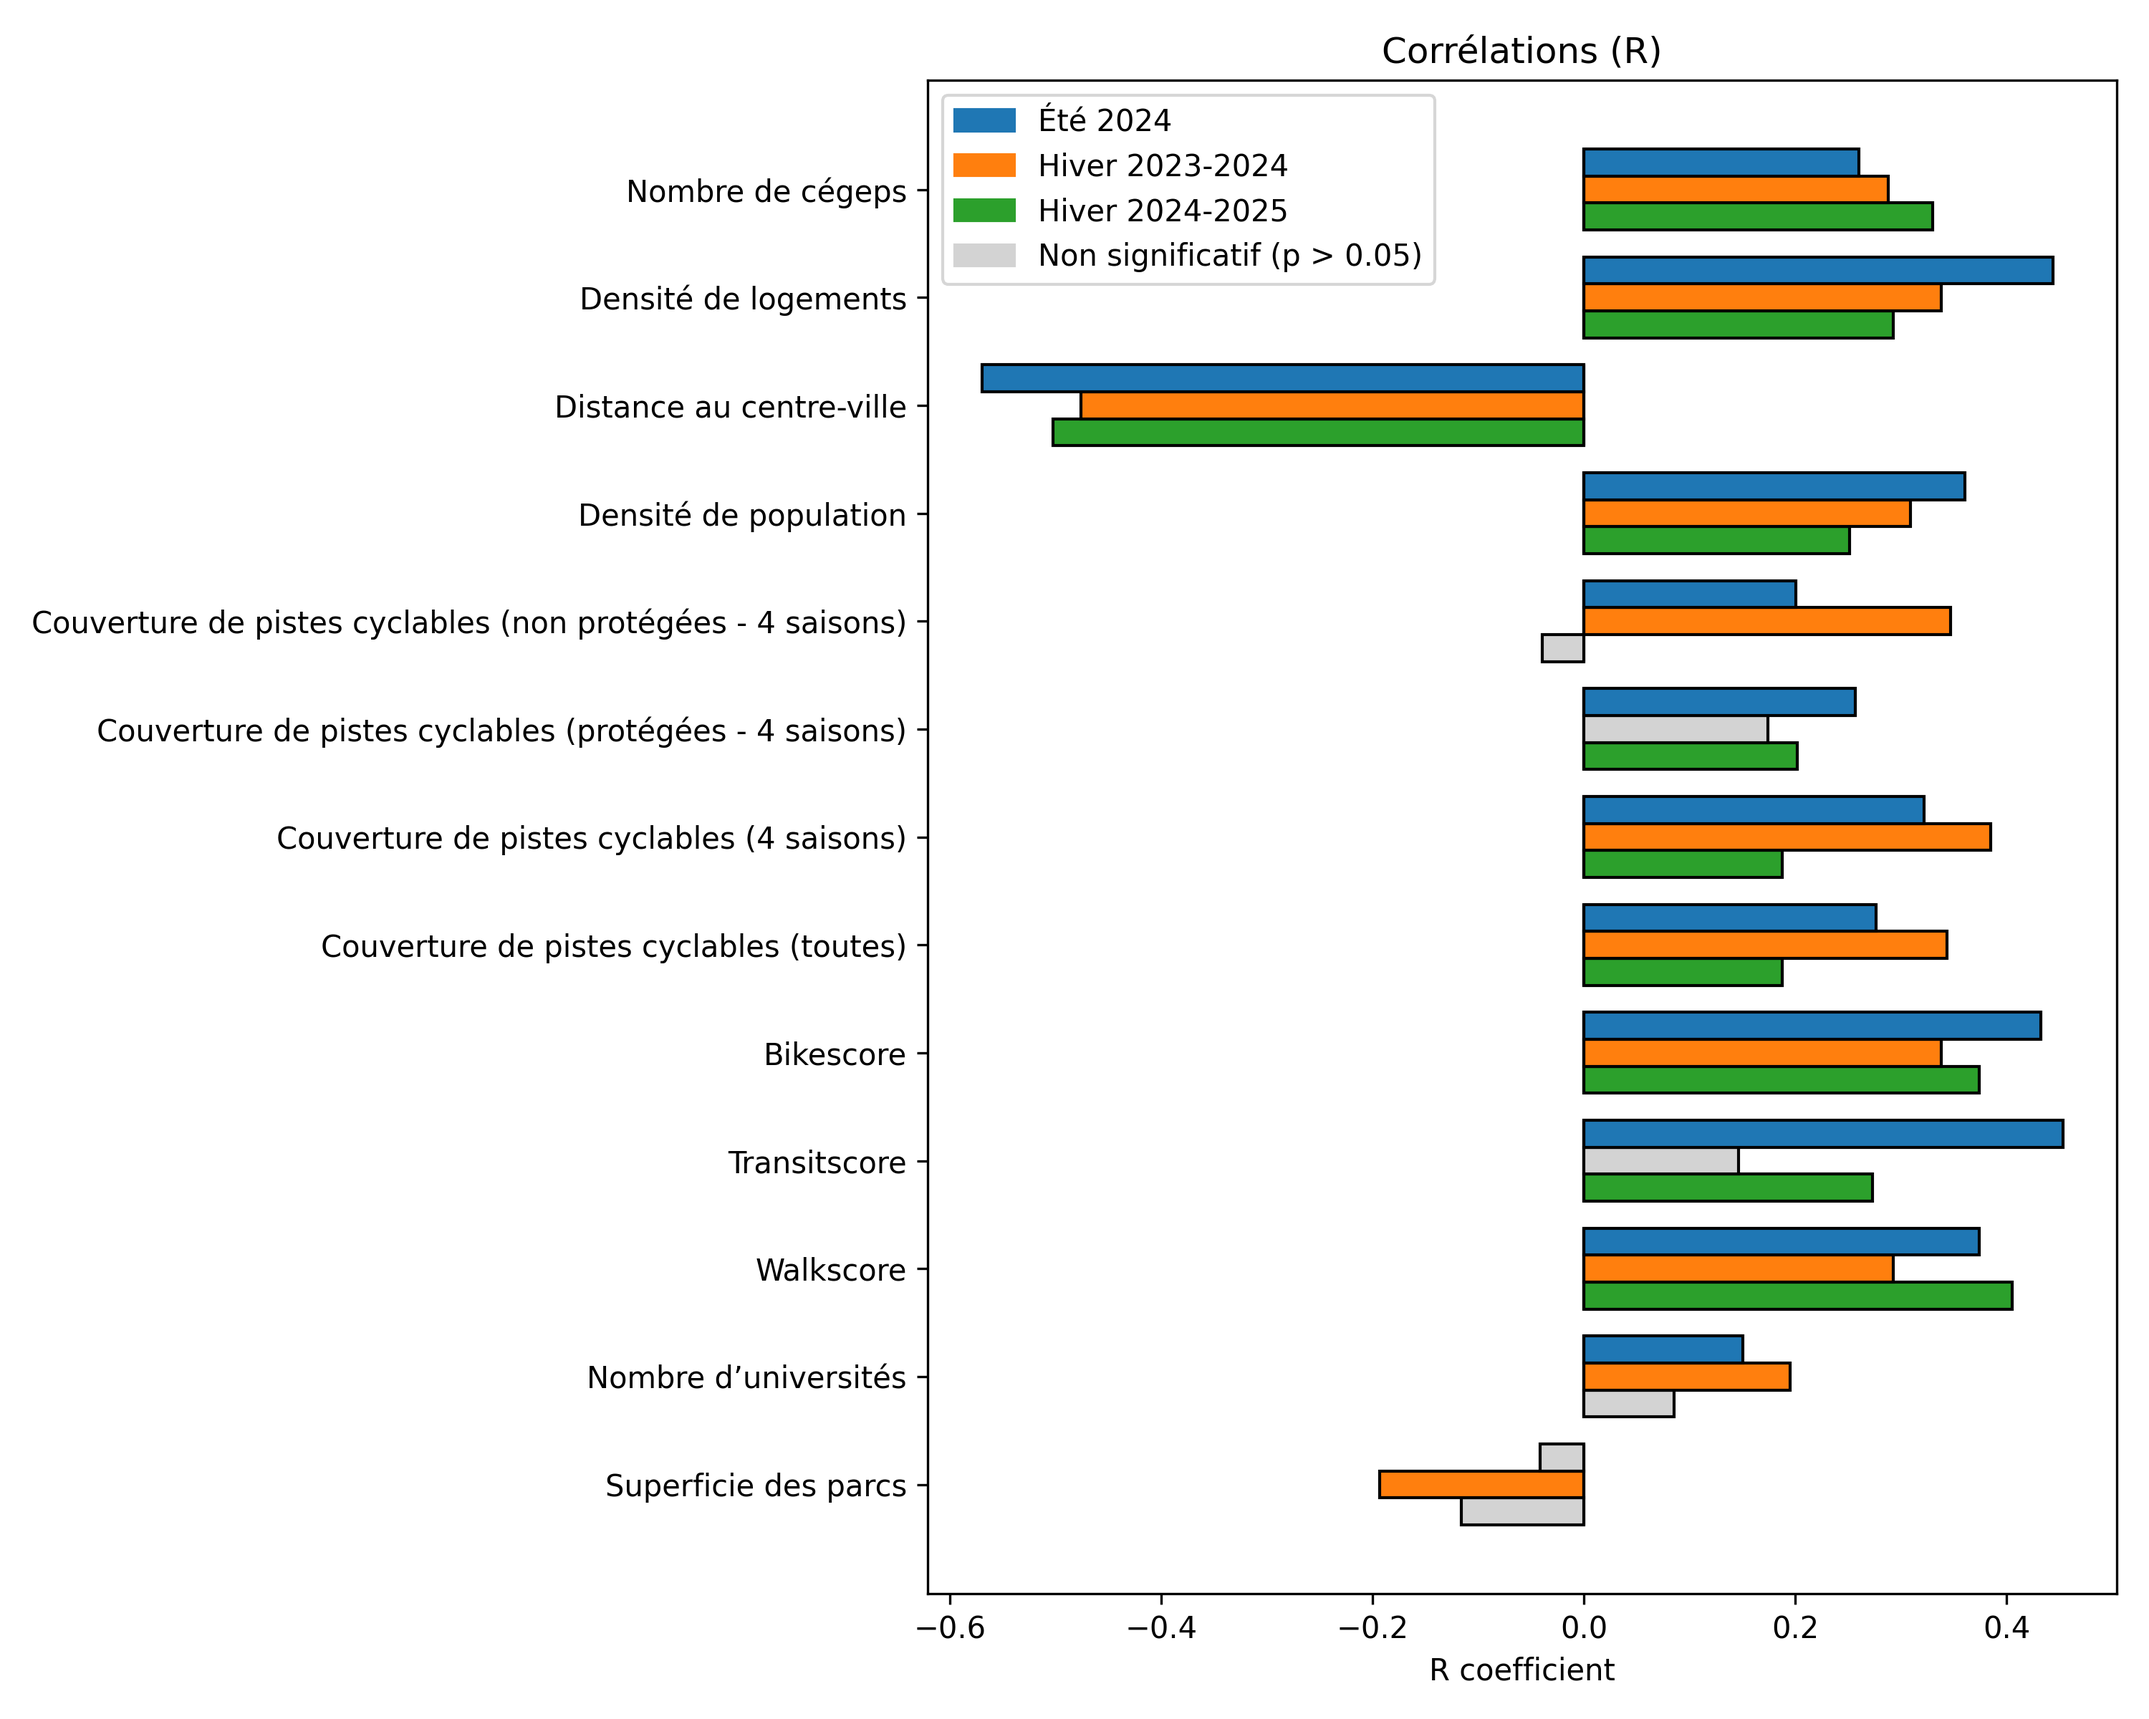
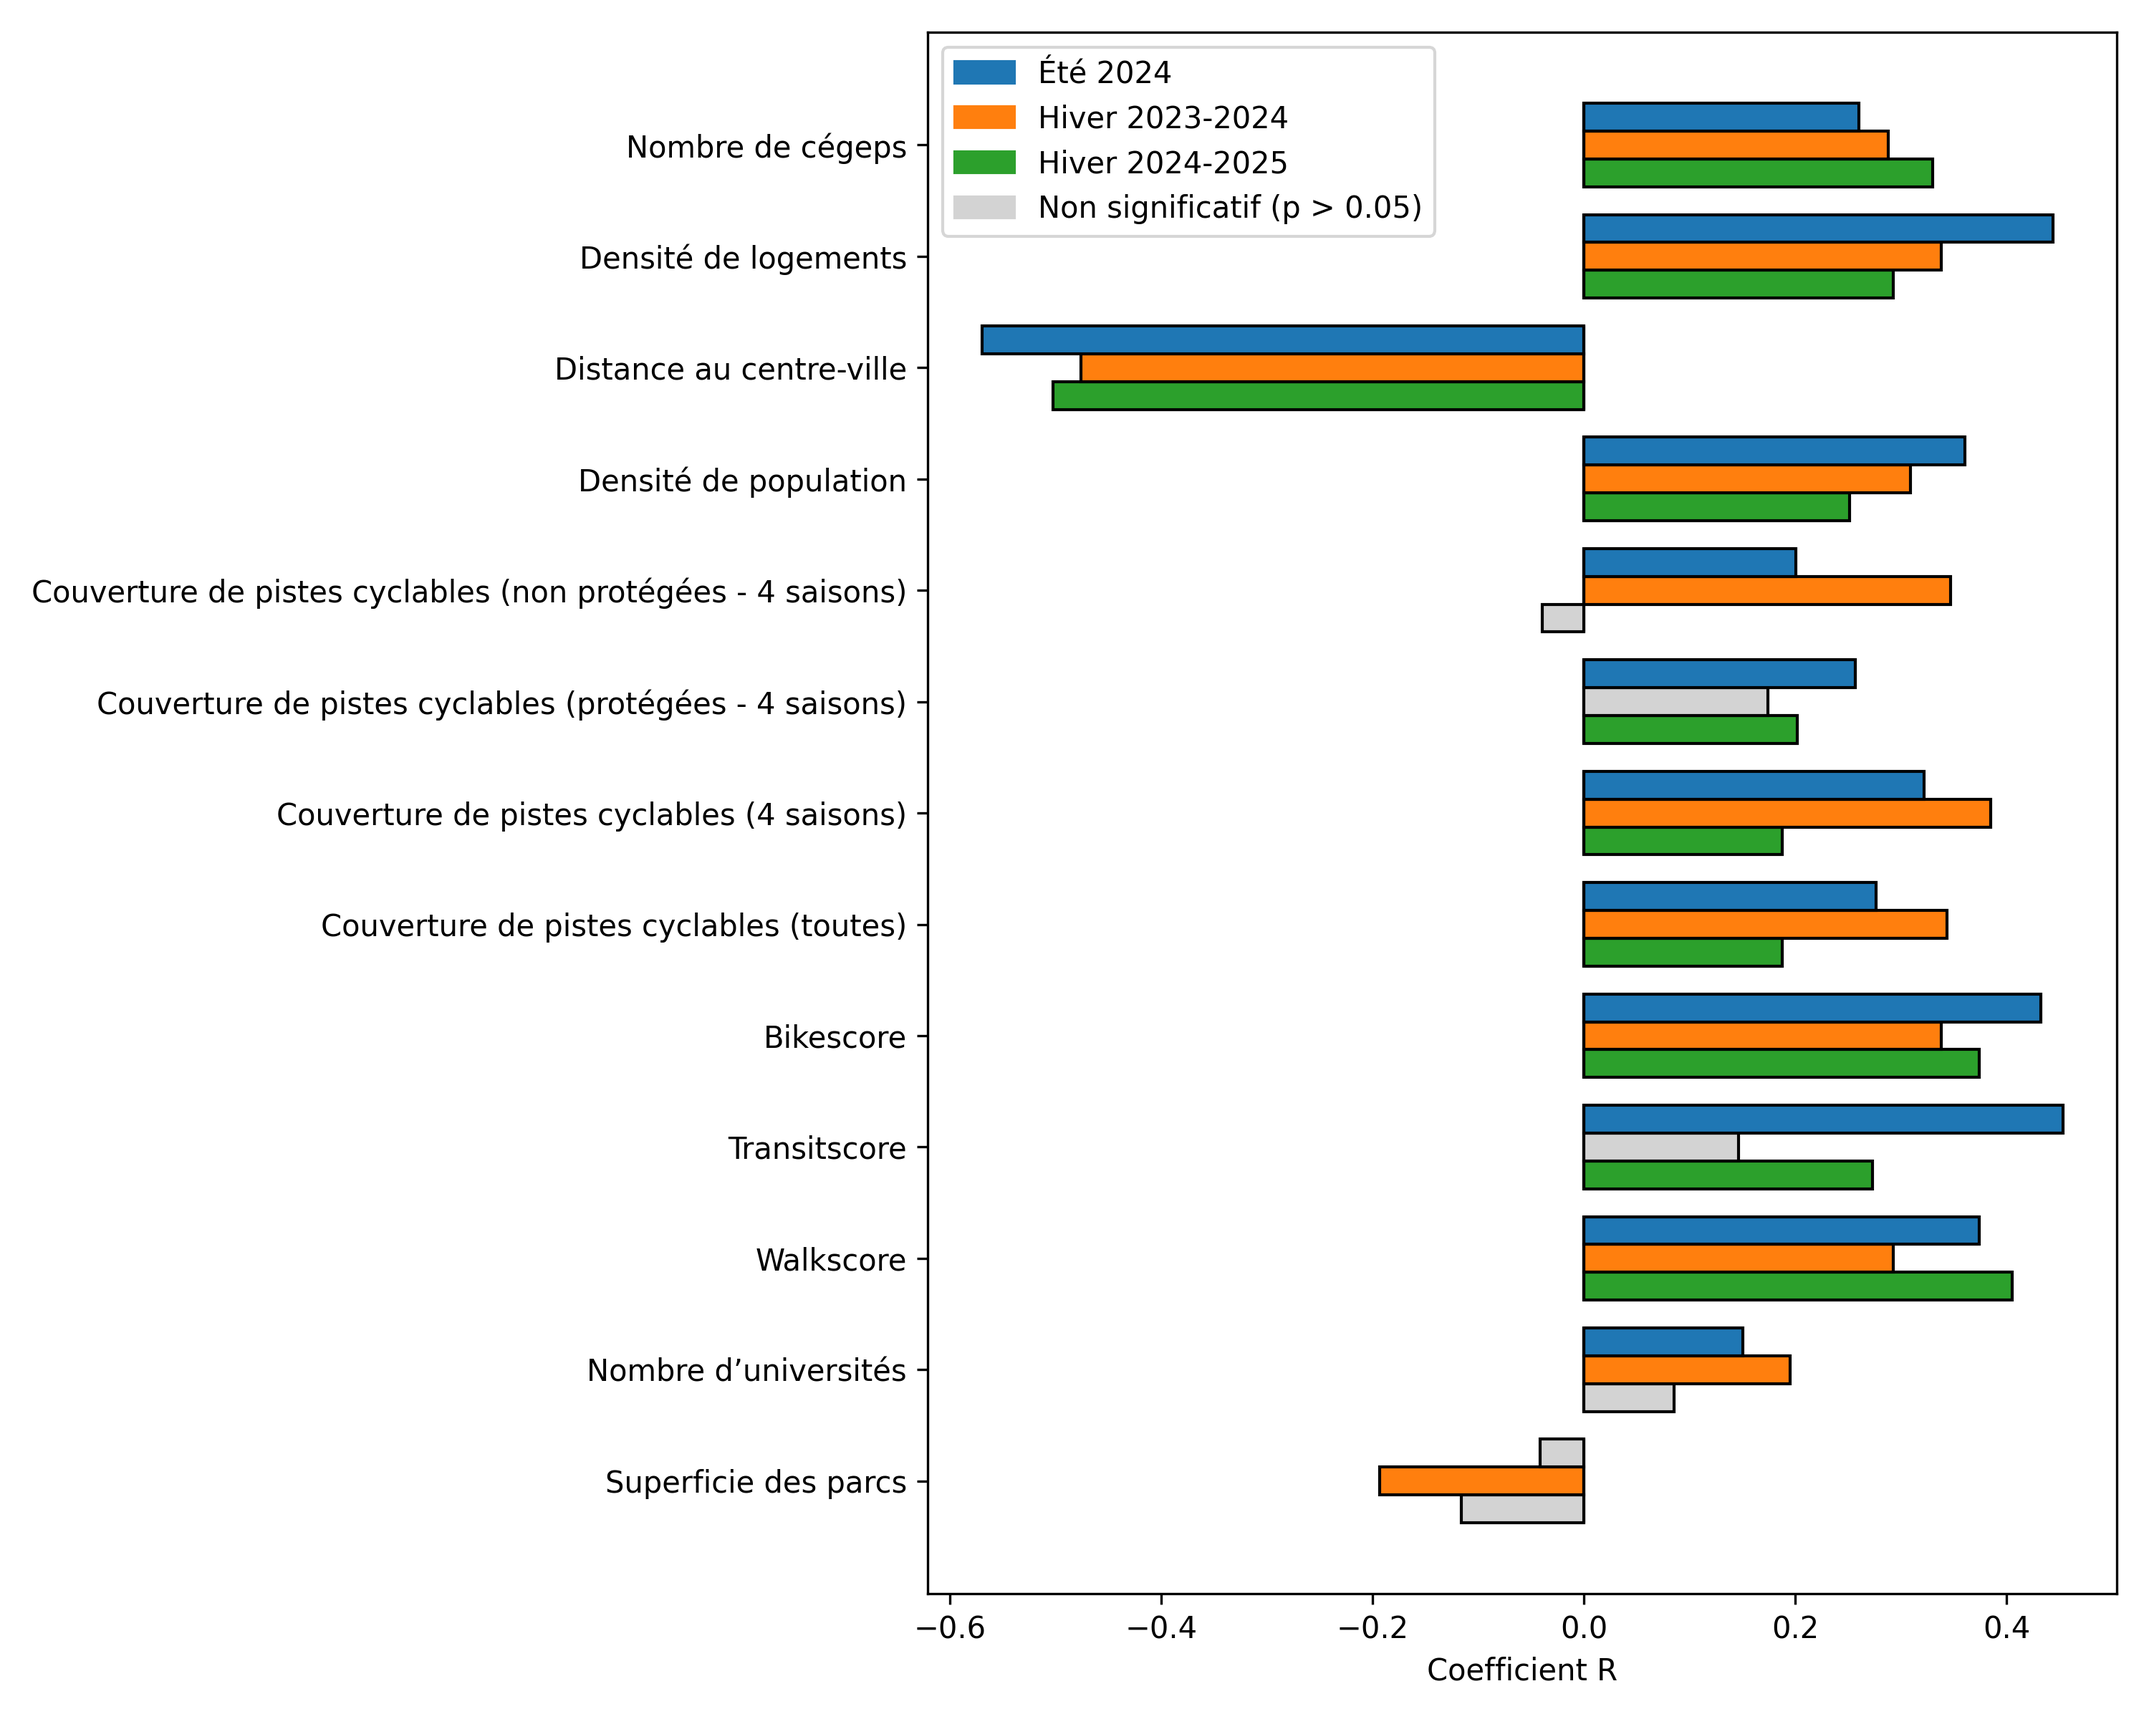
remove title

diff --git a/scripts/visuals/corr_comp_graph.py b/scripts/visuals/corr_comp_graph.py
@@ -82,8 +82,7 @@ def plot_correlation(R_col, p_col, output_file="correlations.png"):
     # Mise en forme
     ax.set_yticks(y)
     ax.set_yticklabels(labels)
-    ax.set_xlabel(f"{R_col} coefficient")
-    ax.set_title(f"Corrélations ({R_col})")
+    ax.set_xlabel(f"Coefficient R")
     plt.tight_layout()
     plt.savefig(output_file, dpi=300)
     plt.close()
